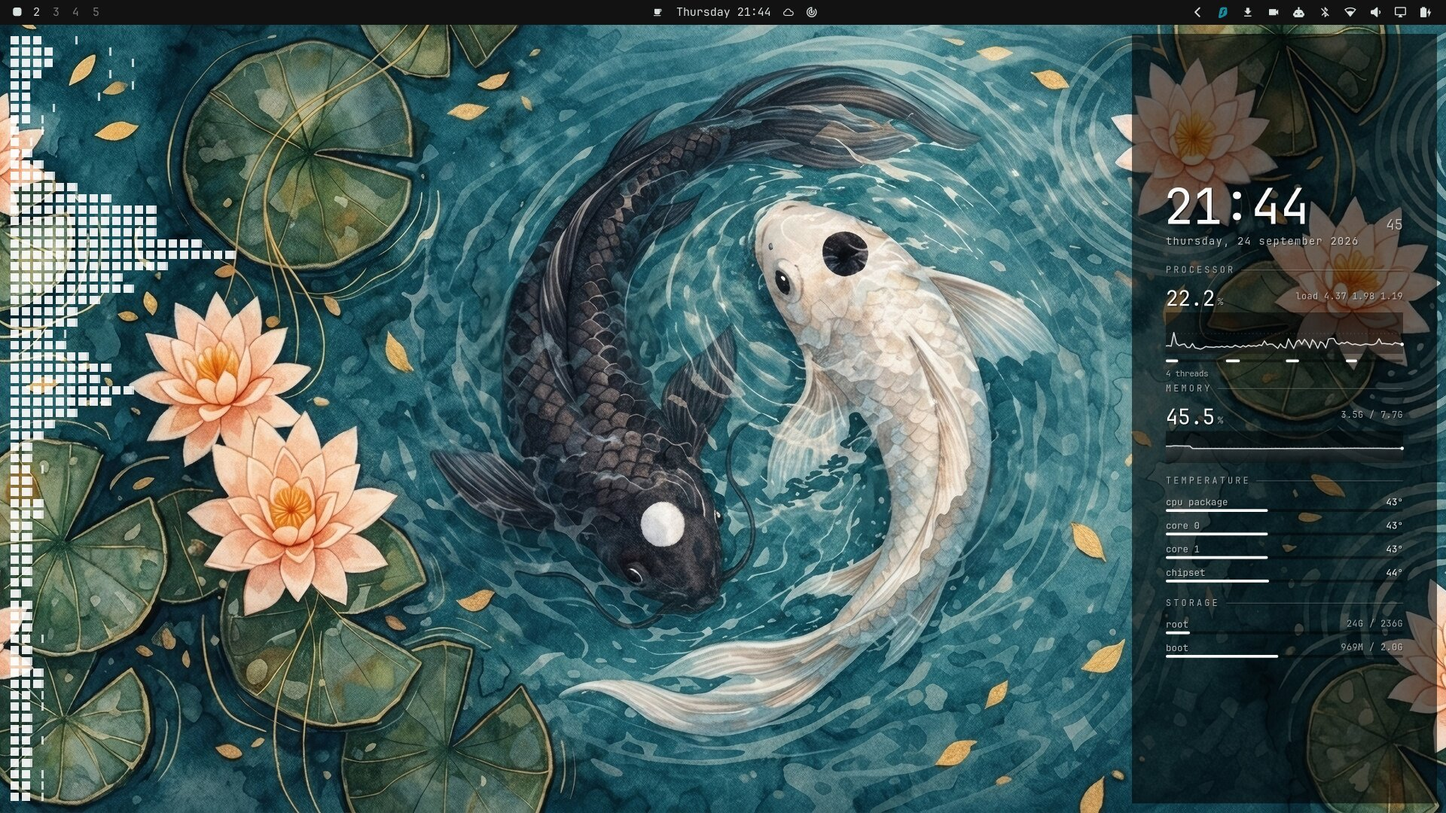
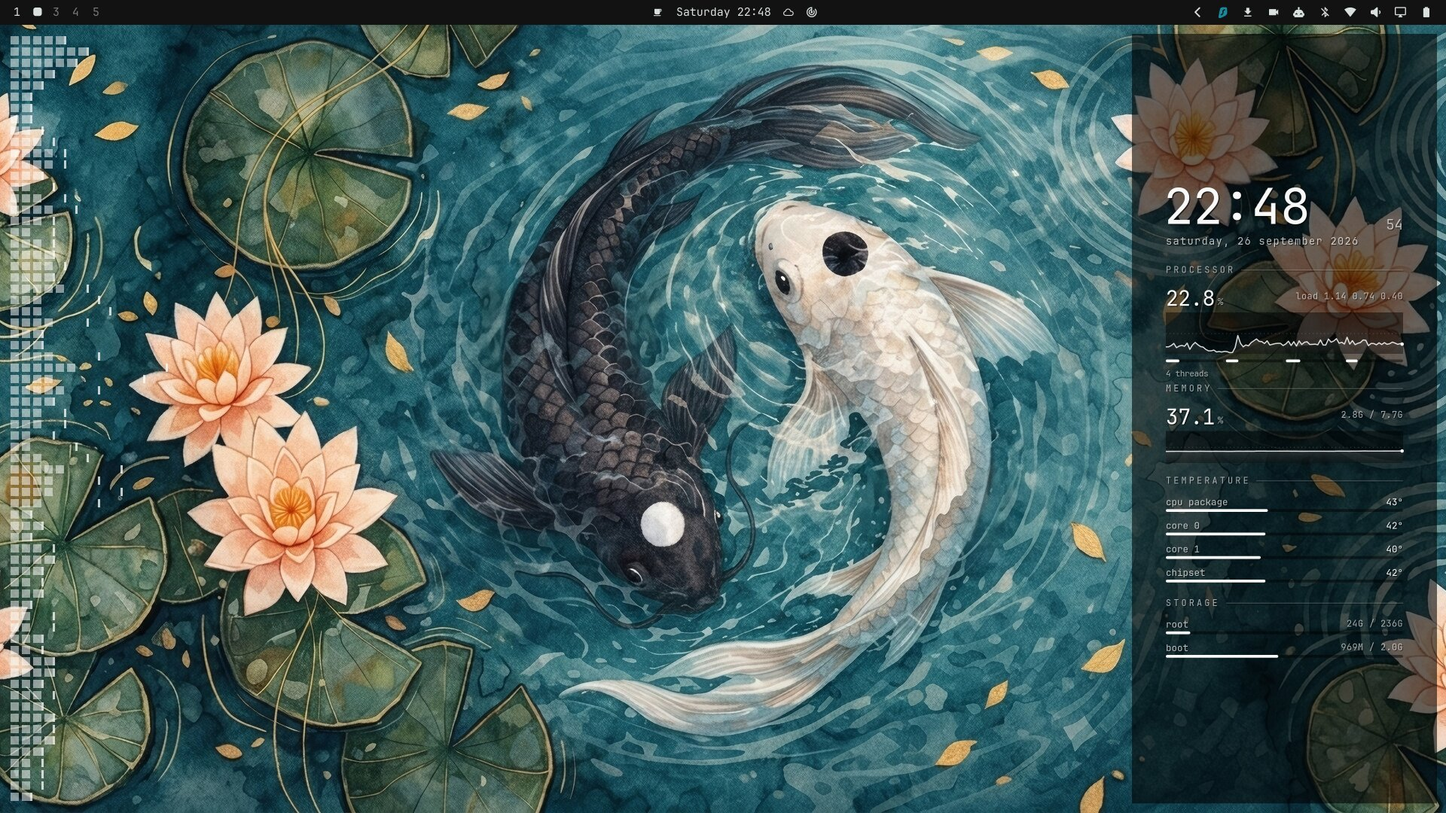
Lower visualizer square opacity to 50%: the spectrum bars sit more softly on the wallpaper; retake the doc screenshot

diff --git a/plugins/sepro.visualizer/Service.qml b/plugins/sepro.visualizer/Service.qml
@@ -136,7 +136,7 @@ Item {
               width: Math.max(0, (root.levels[index] || 0) * root.step - root.gap)
               height: root.square
               clip: true
-              opacity: 0.9
+              opacity: 0.5
 
               Row {
                 spacing: root.gap
